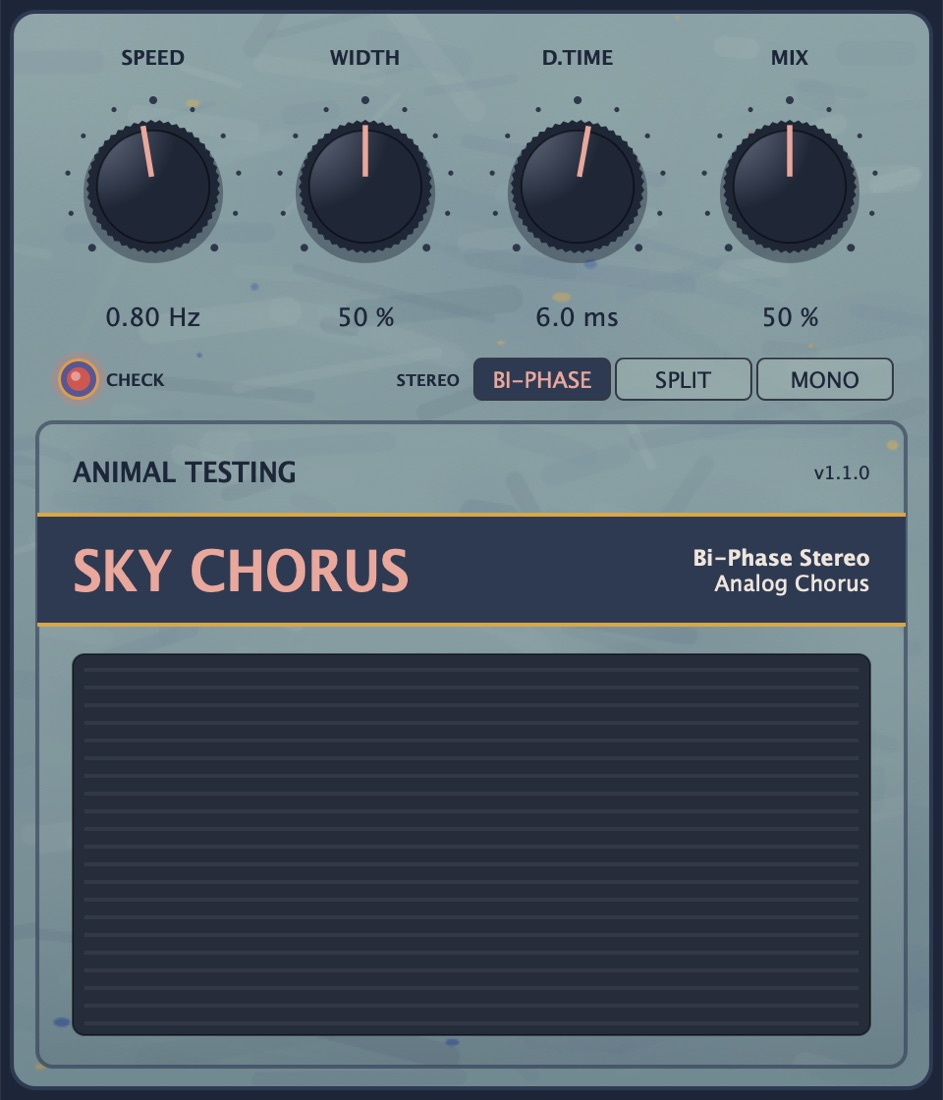
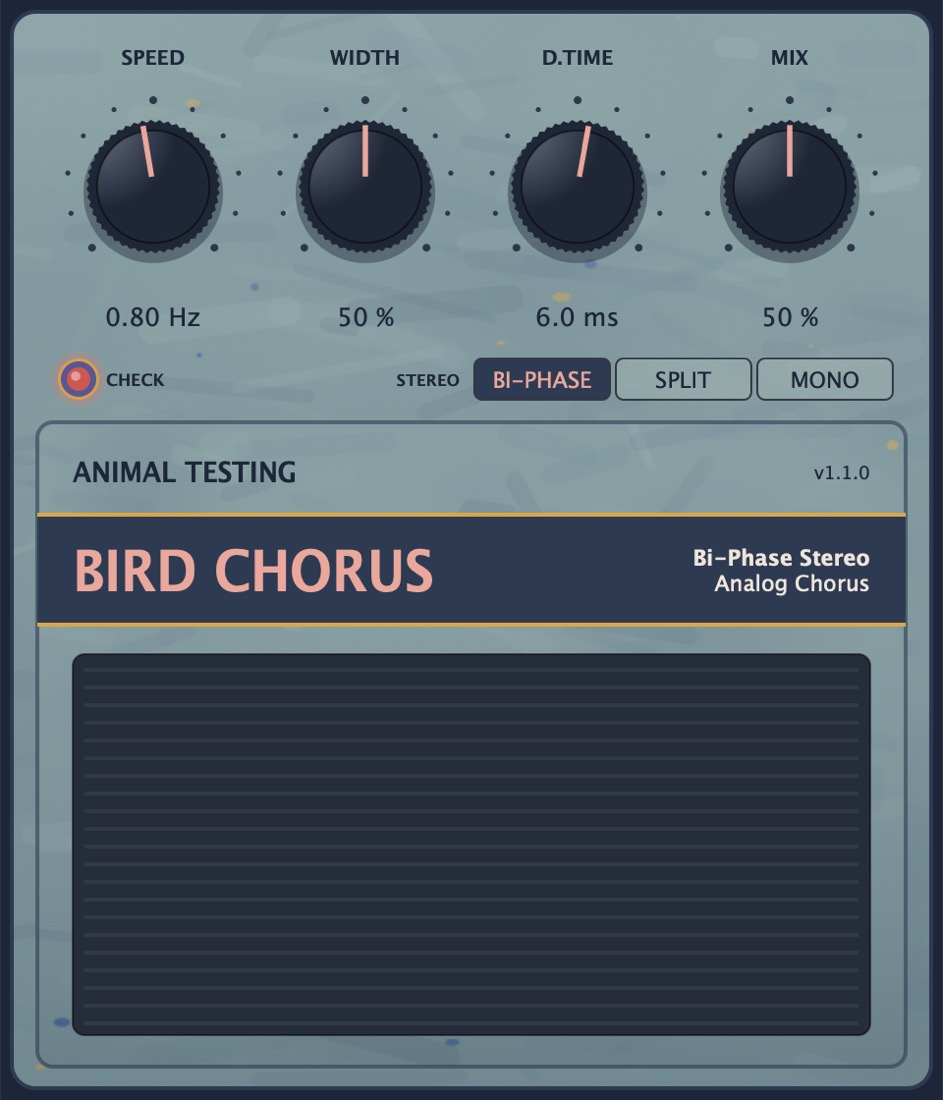
Rename Sky Chorus to Bird Chorus, keeping the Skyc plugin code

Changed region(s): [[0.0615, 0.4945, 0.4613, 0.5564]]

diff --git a/site/bird-chorus/index.html b/site/bird-chorus/index.html
@@ -3,8 +3,8 @@
 <head>
 <meta charset="utf-8">
 <meta name="viewport" content="width=device-width, initial-scale=1, viewport-fit=cover">
-<title>Sky Chorus · Animal Testing</title>
-<meta name="description" content="AT Sky Chorus: Modelled on the Ibanez SC10 Super Stereo Chorus. Inspired by Blue Smiley. VST3 · AU · Standalone for macOS and Windows.">
+<title>Bird Chorus · Animal Testing</title>
+<meta name="description" content="AT Bird Chorus: Modelled on the Ibanez SC10 Super Stereo Chorus. Inspired by Blue Smiley. VST3 · AU · Standalone for macOS and Windows.">
 <meta name="theme-color" content="#0072bc">
 <link rel="preconnect" href="https://fonts.googleapis.com">
 <link rel="preconnect" href="https://fonts.gstatic.com" crossorigin>
@@ -32,10 +32,10 @@
 
 <main>
 <header class="wrap plug-hero">
-  <div class="plug-shot"><img src="../img/skychorus.jpg" alt="AT Sky Chorus pedal"></div>
+  <div class="plug-shot"><img src="../img/birdchorus.jpg" alt="AT Bird Chorus pedal"></div>
   <div class="plug-intro">
     <span class="label">Effect · Analog chorus</span>
-    <div class="title-row"><h1>Sky Chorus</h1><span class="tag" title="Plugin code">Skyc</span></div>
+    <div class="title-row"><h1>Bird Chorus</h1><span class="tag" title="Plugin code">Skyc</span></div>
     <p class="desc">Modelled on the Ibanez SC10 Super Stereo Chorus. Inspired by Blue Smiley.</p>
     <p class="lede">A mid-80s analog stereo chorus. Its <strong>1024-stage bucket brigade is run the way the chip runs it</strong>, sampled at its own swept clock rather than read from a moving tap. That's where the slightly seasick wobble comes from.</p>
     <div class="actions">

diff --git a/site/index.html b/site/index.html
@@ -81,10 +81,10 @@
       </div>
     </article>
 
-    <article class="specimen" data-group="space" id="sky-chorus">
-      <div class="shot"><img src="img/skychorus.jpg" alt="AT Sky Chorus pedal" loading="lazy"></div>
+    <article class="specimen" data-group="space" id="bird-chorus">
+      <div class="shot"><img src="img/birdchorus.jpg" alt="AT Bird Chorus pedal" loading="lazy"></div>
       <div class="body">
-        <header><h3><a href="sky-chorus/">Sky Chorus</a><small>Effect · Analog chorus</small></h3><span class="tag">Skyc</span></header>
+        <header><h3><a href="bird-chorus/">Bird Chorus</a><small>Effect · Analog chorus</small></h3><span class="tag">Skyc</span></header>
         <p class="what">Modelled on the Ibanez SC10 Super Stereo Chorus. Inspired by Blue Smiley.</p>
         <ul><li>Speed, Width, Delay Time, Mix and a footswitch</li><li>Stereo as Bi-Phase, Dry/Wet Split or Mono-Safe</li><li>4x oversampled</li></ul>
         <footer><span>v1.1.0</span><span>VST3 · AU · Standalone</span><span class="more" aria-hidden="true">More →</span></footer>

diff --git a/site/tapeworm/index.html b/site/tapeworm/index.html
@@ -106,7 +106,7 @@
 
 <nav class="wrap pager" aria-label="More plugins">
   <a class="prev" href="../waterfall/"><span class="label">← Previous</span><strong>Waterfall</strong></a>
-  <a class="next" href="../sky-chorus/"><span class="label">Next →</span><strong>Sky Chorus</strong></a>
+  <a class="next" href="../bird-chorus/"><span class="label">Next →</span><strong>Bird Chorus</strong></a>
 </nav>
 
 <footer class="wrap page-foot">

diff --git a/site/green-rooskie/index.html b/site/green-rooskie/index.html
@@ -91,7 +91,7 @@
 </main>
 
 <nav class="wrap pager" aria-label="More plugins">
-  <a class="prev" href="../sky-chorus/"><span class="label">← Previous</span><strong>Sky Chorus</strong></a>
+  <a class="prev" href="../bird-chorus/"><span class="label">← Previous</span><strong>Bird Chorus</strong></a>
   <a class="next" href="../blue-heeler/"><span class="label">Next →</span><strong>Blue Heeler</strong></a>
 </nav>
 

diff --git a/tools/BirdChorusRender/Main.cpp b/tools/BirdChorusRender/Main.cpp
@@ -1,14 +1,14 @@
-// Offline checks for Sky Chorus, without a DAW.
+// Offline checks for Bird Chorus, without a DAW.
 //
-//   SkyChorusRender render <input audio> <output.wav> [--<param>=<value> ...]
+//   BirdChorusRender render <input audio> <output.wav> [--<param>=<value> ...]
 //       Plays a file through the processor (all parameters by ID, values as the host shows them).
 //
-//   SkyChorusRender measure [--tone=1000] [--<param>=<value> ...]
+//   BirdChorusRender measure [--tone=1000] [--<param>=<value> ...]
 //       Feeds a -12 dBFS sine through the wet path alone (Mix 100, Mono-Safe unless overridden) and
 //       prints the pitch sweep in cents, the strongest harmonics and spurs, the hiss floor and the
 //       CPU cost.
 //
-//   SkyChorusRender snapshot <output.png> [--<param>=<value> ...]
+//   BirdChorusRender snapshot <output.png> [--<param>=<value> ...]
 //       Saves a picture of the editor.
 
 #include "PluginProcessor.h"
@@ -222,8 +222,8 @@ int main (int argc, char* argv[])
     if (command == "snapshot" && args.size() >= 2) return snapshot (args);
 
     std::cerr << "Usage:\n"
-                 "  SkyChorusRender render <input> <output.wav> [--<param>=<value> ...]\n"
-                 "  SkyChorusRender measure [--tone=1000] [--<param>=<value> ...]\n"
-                 "  SkyChorusRender snapshot <output.png> [--<param>=<value> ...]\n";
+                 "  BirdChorusRender render <input> <output.wav> [--<param>=<value> ...]\n"
+                 "  BirdChorusRender measure [--tone=1000] [--<param>=<value> ...]\n"
+                 "  BirdChorusRender snapshot <output.png> [--<param>=<value> ...]\n";
     return 1;
 }

diff --git a/plugins/BirdChorus/Source/PluginEditor.cpp b/plugins/BirdChorus/Source/PluginEditor.cpp
@@ -43,7 +43,7 @@ void Treadle::paintButton (juce::Graphics& g, bool highlighted, bool down)
     stripe.reduce (18.0f, 0.0f);
     g.setColour (Palette::pink);
     g.setFont (juce::FontOptions (34.0f, juce::Font::bold).withHorizontalScale (0.9f));
-    g.drawText ("SKY CHORUS", stripe, juce::Justification::centredLeft);
+    g.drawText ("BIRD CHORUS", stripe, juce::Justification::centredLeft);
     auto caption = stripe.removeFromRight (150.0f);
     g.setColour (Palette::cream);
     g.setFont (juce::FontOptions (13.0f, juce::Font::bold));

diff --git a/README.md b/README.md
@@ -8,7 +8,7 @@ A monorepo of audio plugins by **Animal Testing**. Each plugin builds as VST3 (W
 | [AT Waterfall](plugins/Waterfall) | `Wtfl` | 1.0.0 | SP-404-style chord resonator: Key, Octave (C-1 to G9), Chord, Brightness, Decay, Mix, with a soft sky-blue spectrogram |
 | [AT Green Rooskie](plugins/GreenRooskie) | `Grsk` | 1.0.0 | Fuzz modelled on the 90s green Russian muff: Volume, Tone, Sustain and a footswitch, 4x oversampled |
 | [AT Shifty](plugins/Shifty) | `Shft` | 1.0.0 | Late-80s digital pitch shifter/delay: Balance, Feedback, Fine-Manual and a six-way Mode (125 ms / 500 ms / 2 s delay, manual / -1 oct / +1 oct pitch) |
-| [AT Sky Chorus](plugins/SkyChorus) | `Skyc` | 1.1.0 | Mid-80s analog BBD chorus after the Ibanez SC10, its 1024-stage bucket brigade run at its own swept clock (4x oversampled), dressed in the colours of Blue Smiley's *Return*: Speed, Width, Delay Time, Mix and a footswitch, with a Stereo switch: Bi-Phase (A = dry + wet, B = dry − wet, like the original), Dry/Wet Split or Mono-Safe |
+| [AT Bird Chorus](plugins/BirdChorus) | `Skyc` | 1.1.0 | Mid-80s analog BBD chorus after the Ibanez SC10, its 1024-stage bucket brigade run at its own swept clock (4x oversampled), dressed in the colours of Blue Smiley's *Return*: Speed, Width, Delay Time, Mix and a footswitch, with a Stereo switch: Bi-Phase (A = dry + wet, B = dry − wet, like the original), Dry/Wet Split or Mono-Safe |
 | [AT Cabinet](plugins/Cabinet) | `Cabn` | 1.0.0 | Cab simulator: six built-in cabs (4x12 Vintage and Modern, 2x12 Open Alnico, 1x12 Open Combo, 4x10 Tweed, 1x8 Practice) with Dynamic, Ribbon or Condenser mic, a speaker pad for mic Position and Distance, Room, Push (speaker drive), Low/High Cut and Output, or load your own IR (embedded in the session); zero latency |
 | [AT Reverser](plugins/Reverser) | `Rvsr` | 0.1.0 | Reverse reverb and delay, grown out of the RV-7's Reverse setting: three Modes (Reverb, where each note swells up backwards and cuts off, as on the RV-7; Delay, each stretch of Time played backwards; Wash, the reverse delay into a long hall), Time (50 ms to 2 s, or synced to the host tempo from 1/32 to 1/1), Repeats, Tone, Mix (wet only at full) and a Tails switch so whatever is playing backwards finishes after bypass |
 | [AT Chilltron](plugins/Chilltron) | `Chtn` | 0.1.0 | Mellotron-style tape replay keyboard, rebuilt from the Redtron SE tapes: two tape banks (A/B) with a blend fader, per-key 8-second tapes that rewind on release, capstan wow & flutter, tape clicks, optional loop, tone, spread and reverb. Tapes are read from `~/Library/Application Support/Animal Testing/Chilltron/Tapes` |
